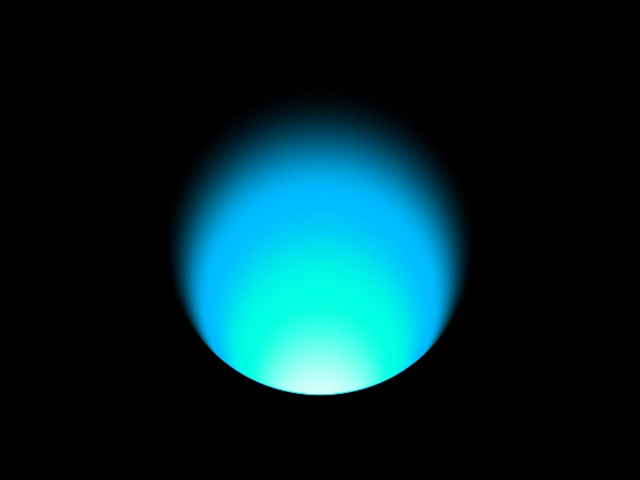
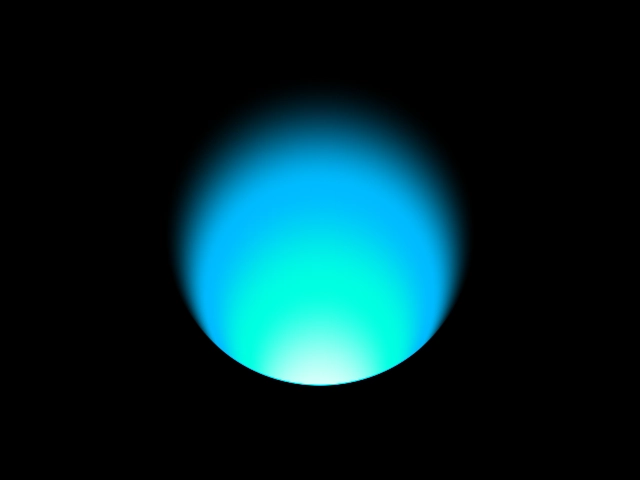
update images

Changed region(s): [[0.3125, 0.2188, 0.6875, 0.4375], [0.2812, 0.5938, 0.7188, 0.8438]]

diff --git a/docs/src/app/test/thumbnails/layout.tsx b/docs/src/app/test/thumbnails/layout.tsx
@@ -9,7 +9,6 @@ export default function ThumbnailsLayout({ children }: { children: React.ReactNo
         alignContent: 'center',
         justifyContent: 'center',
         gap: '16px',
-        // scale: 0.5,
       }}
     >
       {children}

diff --git a/docs/src/app/test/app-thumbnails.ts b/docs/src/app/test/app-thumbnails.ts
@@ -18,7 +18,7 @@ export const appThumbnails = homeThumbnails.map((item) => {
       ...item,
       shaderConfig: {
         ...item.shaderConfig,
-        spacing: 0.95,
+        spacing: 0.96,
       },
     };
   }
